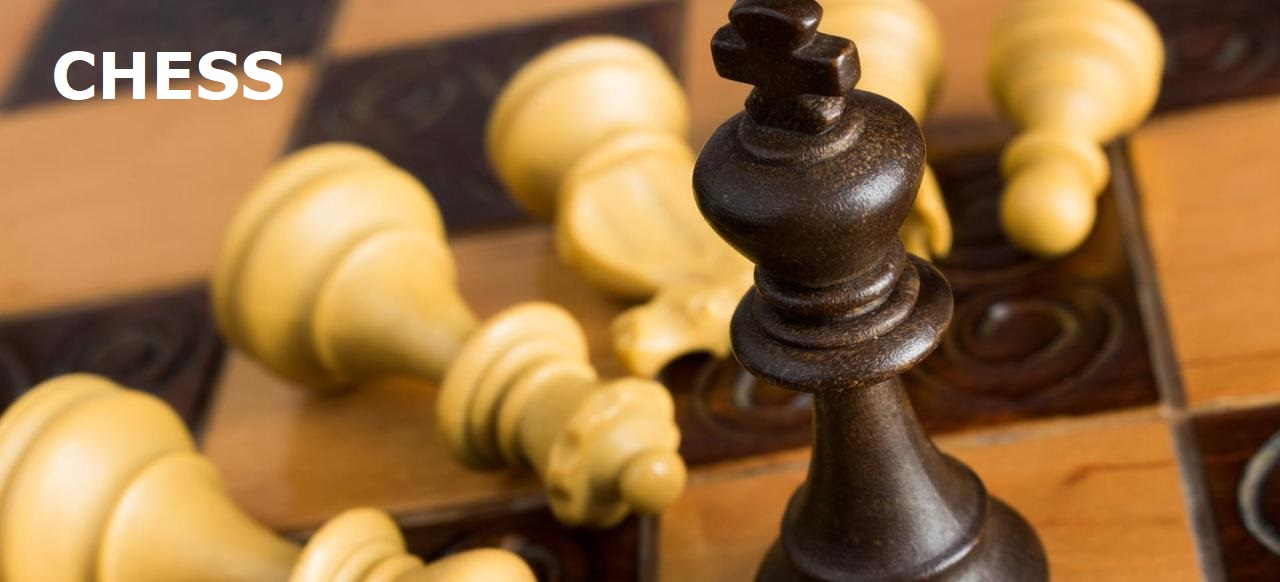
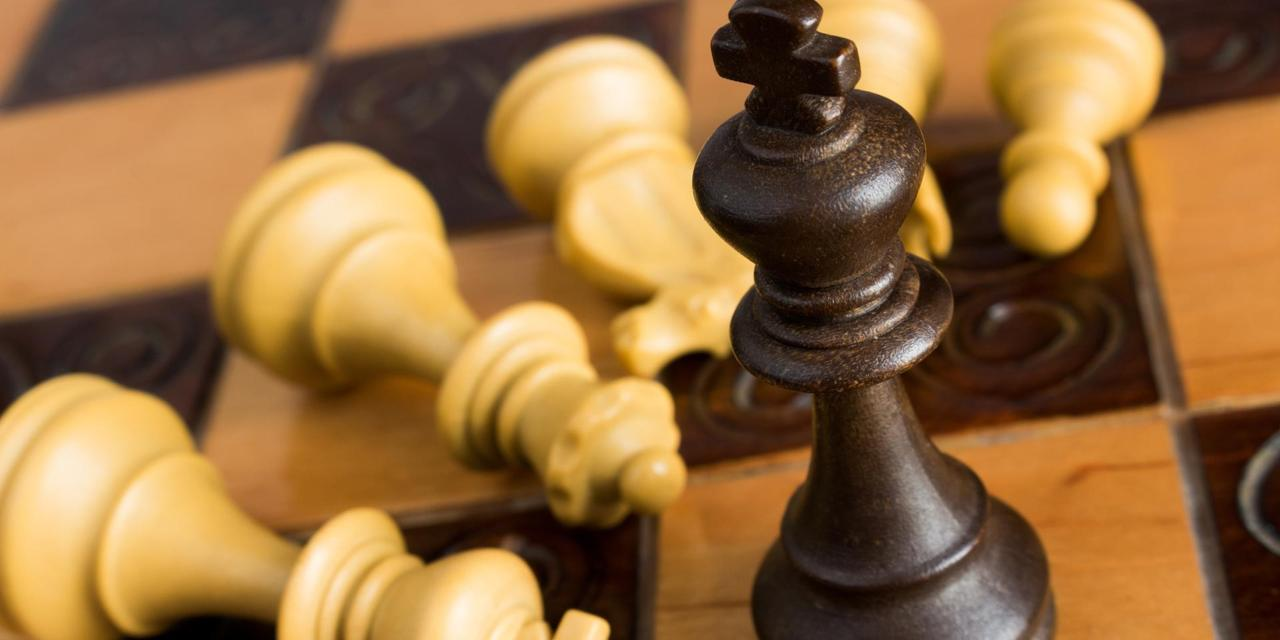
Home page add head text. Button center.

diff --git a/Web/Chess.Web/wwwroot/css/site.css b/Web/Chess.Web/wwwroot/css/site.css
@@ -86,8 +86,8 @@
 
 .chessImage .btn {
     position: absolute;
-    top: 25%;
-    left: 13%;
+    top: 50%;
+    left: 50%;
     transform: translate(-50%, -50%);
     -ms-transform: translate(-50%, -50%);
     background-color: black;
@@ -116,6 +116,27 @@
     font-size: 18px;
 }
 
+#title {
+    text-align: center;
+    background-color: #454a52;
+    color: white;
+    margin: 0px;
+    padding: 5px;
+    font-family: 'Gill Sans', 'Gill Sans MT', Calibri, 'Trebuchet MS', sans-serif;
+    font-variant: small-caps;
+    letter-spacing: 1px;
+    font-weight: 500;
+}
+
+#by-text {
+    text-align: center;
+    background-color: black;
+    color: white;
+    margin: 0px;
+    padding: 5px;
+    font-family: 'Gill Sans', 'Gill Sans MT', Calibri, 'Trebuchet MS', sans-serif;
+    letter-spacing: 1px;
+}
 
 
 /* Sticky footer styles
